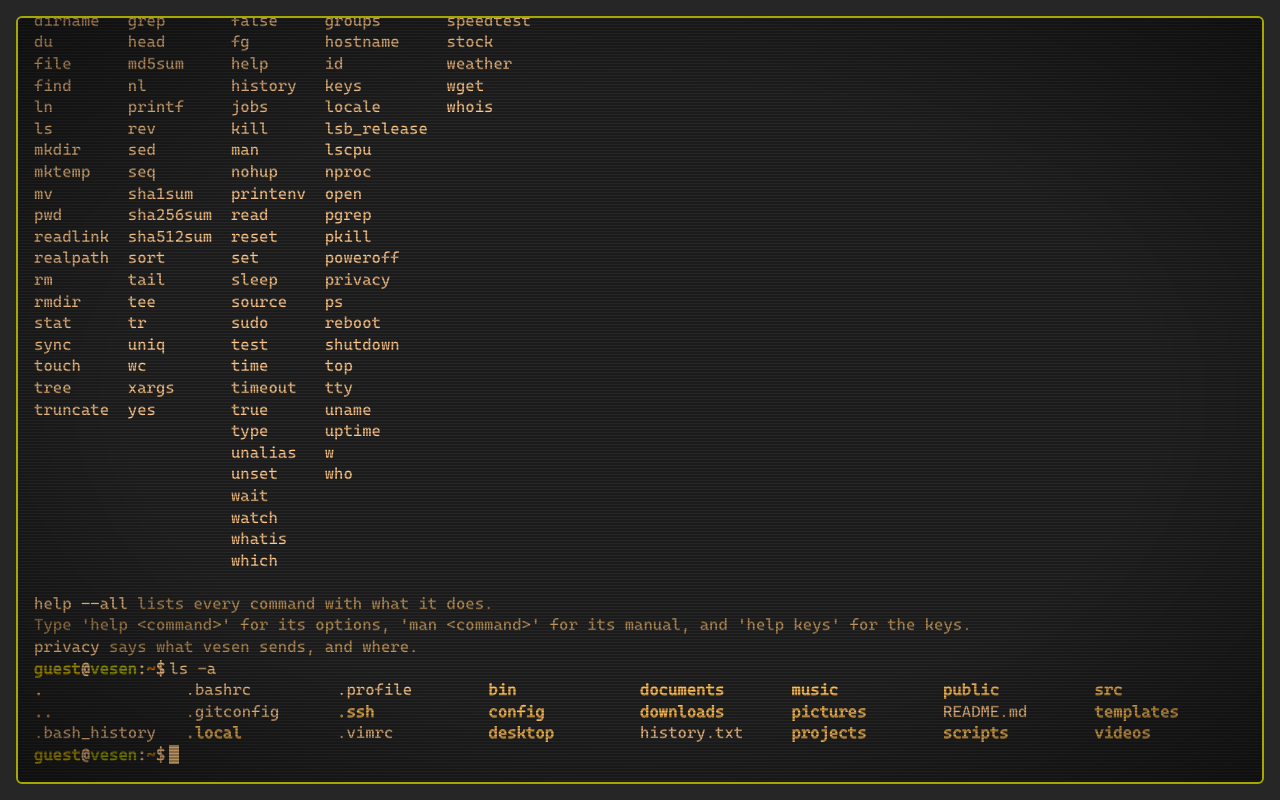
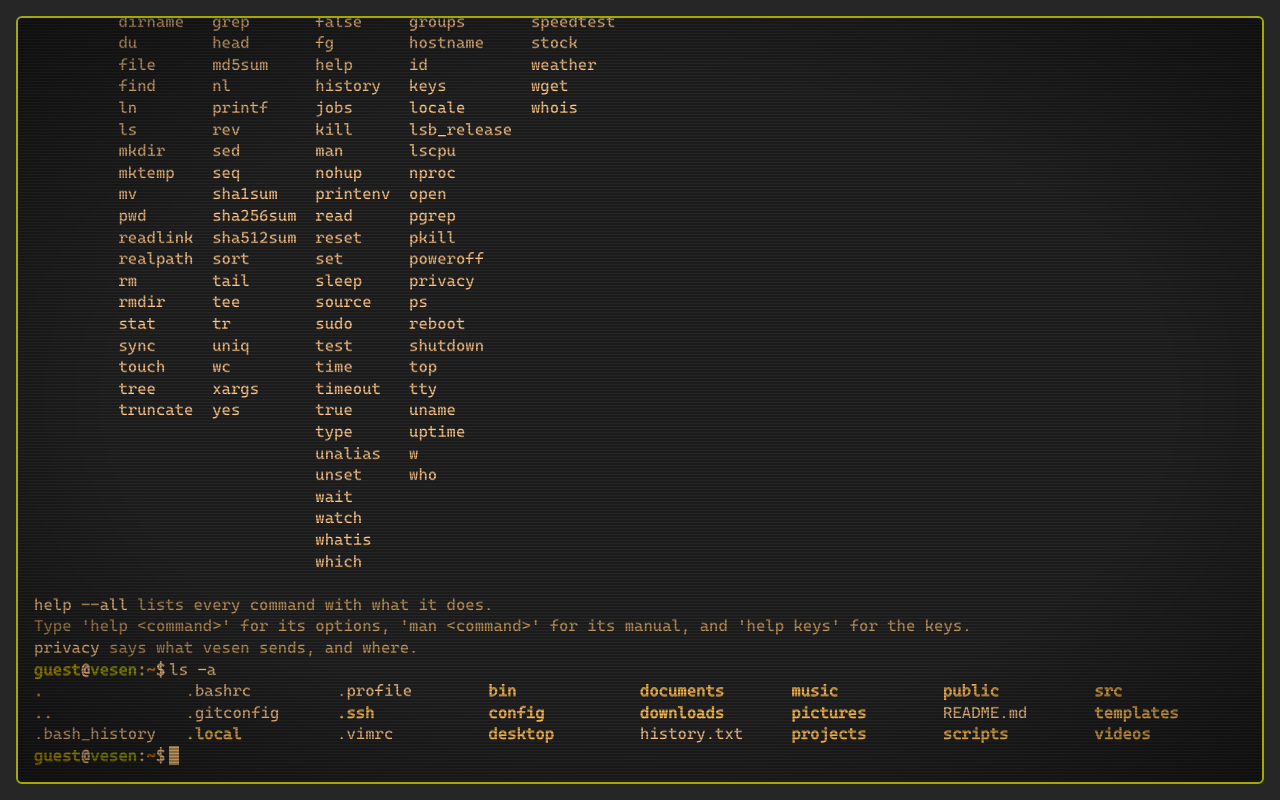
Records: the owner's second review, drawn in ASCII
CHANGELOG's 2.0.0 entry, docs/plan/STATUS.md and ADR 0001 record the
round (weather 426a19f, logos 0a81e59, audit 6b8d381, then help keys
b5a5a9c): the rule, what each track landed, the contracts, the numbers
from this tree, the exceptions kept on purpose and the follow-ups.
banner.ts's comments give the wordmark's sizes with its shadow (44x7,
compact 27x4); the README names the dock's keys in ASCII and no longer
says a wide tree scrolls; the themes README says what the screenshots
show. The fifteen theme screenshots are regenerated from this build
(themes.gif still needs ffmpeg), and the screenshot script serves the
build on the port PW_PORT names when it is set.

diff --git a/docs/plan/STATUS.md b/docs/plan/STATUS.md
@@ -19,12 +19,13 @@ Commit ranges are inclusive; `git log --oneline FIRST^..LAST` lists one. The pha
 | **5. Finish the shell** | `f6c2265`..`ec96dee` (17) | 5.1 the legacy layer deleted (`f6c2265`); 5.2 the lazy catalogue (`b02b1d3`); waves F, E, D, C, A2 and A1 built side by side (`30d1818`, `7344b3b`, `f485027`, `d93ec7a`, `8fdeb59`, `d1c9fe0`, `8718c88`) and merged in order (`490e31c`..`775fe87`); the kernel kept in budget (`115ec06`); the review fixes (`ec96dee`). |
 | **Release** | `370355d` | Version 2.0.0, this page, the README, `docs/SHELL.md`, `CHANGELOG.md`, `CONTRIBUTING.md`, `SECURITY.md`, the pull request template and issue forms, the theme screenshots. |
 | **Follow-up fixes** | `aaa19e8`, `0a14436`, `ef06bc0`, `239e9f0`, merged in `496b27e`..`372ba51`, recorded in `220ef18`; then "Fix what verification of the follow-up fixes found" | The 15 review findings the release left, in four tracks built side by side: apps (Back closes every full-screen view, `nano`'s phone prompt and ^F, `less +CMD`), caps (standard input and `$( )` held to 16 MB, drawings in the screen caps, `figlet`'s widths and fonts, `ping`'s IPv4 inside IPv6), prompt (no flag values in completion, ^C where it was pressed, no early Tab bell, the registry's hints) and gnu (`ip route get`, `timeout` and `nohup`, `date -d`, one process table for `ps` and `/proc`, the review fixes' regression tests). Then the five problems an adversarial check of the merged fixes found: `ip`'s completion, Back while an app loads, the entry a reload leaves, `nano`'s buffer when Back leaves anyway, and `date -d`'s calendar. Still 2.0.0, as the tag was not yet pushed. |
-| **Owner's review** | `f020a16`, `dcb6e14`, `e8a806d`, `b72c847`, merged in `341eda3`..`2e6655e`; then `1416133`, `bfc212e`, `73d9140` | The owner tried v2.0.0 and asked for changes, built in four tracks side by side: help (the index in columns with every command, no underline on tappable names, the cathode glow on them, the `linkedin` command removed, `tree` in the banner, prompt taps on iOS), themes (`theme NAME`, every theme shown at once, five new themes), art (the VESEN wordmark, block-art OS logos, Unicode weather pictograms, two line heights for art) and unicode (every glyph from the font with a guard, the mail card, ASCII stand-ins replaced, weather's matches as chips); then closed lists shown whole on a desktop, the tap-to-type area as a tap target, and the theme screenshots regenerated; and a fifth track, sudo (`b80898c`, merged in `921176c`): the Rick app, an original dancer and an original chiptune, instead of the YouTube link. Still 2.0.0, as the tag was not yet pushed. |
+| **Owner's review** | `f020a16`, `dcb6e14`, `e8a806d`, `b72c847`, merged in `341eda3`..`2e6655e`; then `1416133`, `bfc212e`, `73d9140` | The owner tried v2.0.0 and asked for changes, built in four tracks side by side: help (the index in columns with every command, no underline on tappable names, the cathode glow on them, the `linkedin` command removed, `tree` in the banner, prompt taps on iOS), themes (`theme NAME`, every theme shown at once, five new themes), art (the VESEN wordmark, block-art OS logos and Unicode weather pictograms, both redrawn in ASCII in the second review below, two line heights for art) and unicode (every glyph from the font with a guard, the mail card, ASCII stand-ins replaced, weather's matches as chips); then closed lists shown whole on a desktop, the tap-to-type area as a tap target, and the theme screenshots regenerated; and a fifth track, sudo (`b80898c`, merged in `921176c`): the Rick app, an original dancer and an original chiptune, instead of the YouTube link. Still 2.0.0, as the tag was not yet pushed. |
+| **Owner's second review** | `0deea87`, `64f755f`, `890e24a`, merged in `426a19f`, `0a81e59`, `6b8d381`; then `b5a5a9c`; recorded in "Records: the owner's second review, drawn in ASCII" | The owner tried the first review's result, rejected the block-art logos and pictograms, and asked for the look of a text-mode terminal: everything drawn is drawn in ASCII on the character grid. Three tracks built it side by side and were merged in order: weather (fourteen pictograms hand-drawn in ASCII at the terminal's line height; the range bar as text, `-` outside the day's range, `=` inside it with each `=` shaded from the cold role to the hot one, a bar at the current temperature; the place shown among same-named matches marked `*`; a bar between facts, `...` for a cut, `~` before an approximate place), logos (the wordmark's drop shadow in colons, 44 by 7 and 27 by 4, with the link preview regenerated; fastfetch's four OS logos traced in letters and punctuation in the terminal's own font; the art tools in `scripts/art/`) and audit (`tree`'s `\|--` and `` `-- `` connectors at the terminal's line height with `--charset`; `figlet`'s `#` ink; the status line's four-frame ASCII spinner; `cmatrix`'s ASCII rain; `stock`'s traced chart, dotted previous close, `o` last point and `[--*----]` range bars, signs without arrows and the range shown marked `*`; `##` swatches; `*` in the foreground for the current entry of `theme ls` and `cathode ls`; `->`, `...`, `*` and a bar between facts in every card, hint, chip, key, notice and status label); then `help keys` naming the dock's keys the same way. Still 2.0.0, as the tag was not yet pushed. |
 
 ### Numbers at release
 
-- **Bundles (gzip), after the owner's review:** JavaScript before the first paint 58.1 of 60 kB; the kernel 73.2 of 75 kB, in three files (at most four); the catalogue's specs 29.7 of 40 kB; what `stock`'s first quote fetches 18.5 of 19 kB.
-- **Tests:** 5,460 unit tests in 231 files; the Playwright counts are those of the full run recorded in the pull request after the owner's review.
+- **Bundles (gzip), after the owner's second review:** JavaScript before the first paint 58.4 of 60 kB; the kernel 73.2 of 75 kB, in three files (at most four); the catalogue's specs 29.9 of 40 kB; what `stock`'s first quote fetches 18.9 of 19 kB (the ASCII chart's tracer took it from 18.5, so about 70 bytes are left until the Worker is deployed and `interim.ts` goes).
+- **Tests:** 5,514 unit tests in 235 files; the Playwright counts are those of the full runs recorded in the pull request after each review.
 - **Commands:** 157, 60 in the core and 97 in the catalogue.
 
 ## Deviations from the plan
@@ -51,6 +52,7 @@ Each was deliberate; the ADR amendment named in brackets has the detail.
 - **Additive kernel contracts from the waves:** `CommandContext.digest` (WebCrypto hashes through a port), the process table (`ShellApi.pid()`, `processes()`, `kill()`, `exec(line, { signal })`, `tty.readLine({ signal })`), `StreamInit.mode: 'no-cors'` for `ping`, a session-storage port for commands, `Frame.foreground` so a pipeline stage at the prompt may open the pager, and `ParsedArgs.version` for `--version`. [Waves A1, C, D, F; Phase 5 review fixes]
 - **Contracts from the follow-up fixes:** `MAX_INPUT` and `InputTooLarge` (standard input held to 16 MB), `CaptureOut`'s limit, `TtySink.block(block, stream)` counting blocks, `TtySink.caret()`, `ArgSpec.marks`, `ProcessInfo.uid`, `ShellApi.processes()` as the whole table, `Shell.proc()` with `GenerateContext.processes` and `self`, `VirtualFile.list`, and an app's `back()` export (`AppExports`); and from what verification found, `EnumValue.args` and `aliases` (with `CursorContext.branch`), `HistoryEntries.dropStray()`, `EditorView.kept` and `keep`, a local-storage port for commands (`src/commands/lib/local-store.ts`) and the `vesen:nano:v1` key. All are additive except that `processes()` now lists init and the shell too. [Phase 5 follow-up fixes]
 - **Six more text roles**, `rainbow-red` to `rainbow-purple`, so `lolcat` reads in every theme; `ROLES` has 28 names. [Phase 5 review fixes]
+- **Contracts from the owner's second review:** `LinesBlock.alt` and `out.lines(lines, stream, alt)`, which `tree` uses for a drawing made of ordinary lines; `Swatches.background` nullable with hex or palette colours, and `SWATCH` (`##`); weather's `ArtRow` as 13 by 5 of printable ASCII, `BarSegment` carrying the bar's text (`BAR_TRACK`, `BAR_RANGE`, `BAR_NOW`), and `SEP`, `ELLIPSIS`, `CHOSEN_MARK` and `APPROXIMATE`; stock's `SparkView.rows` of `ChartRun`s and `RangeBarView.track` from `stock/chart.ts`, with `SEP`, `NONE`, `LIVE_MARK`, `IDLE_MARK` and an ASCII `MINUS`; `META_SEP` in `lib/qr`, `ELAPSED_SEPARATOR` in `ui/status-line.ts`, `CURRENT_MARK` in `theme.ts` and `LiveBinding.marker`; `tree`'s `CHARSETS` and `charsetNamed`. All additive except that stock's `viewId` and `id` went with its SVG. [The owner's second review]
 
 ### Safety
 
@@ -63,6 +65,10 @@ Each was deliberate; the ADR amendment named in brackets has the detail.
 - **One regex guard with a line limit.** `src/commands/lib/regex.ts` refuses nested and ambiguous repeats, weighs bounded choices, and gives each pattern the longest line it may run against. `find -name`, `-path` and `tree -I` use shell wildcards (`fnmatch.ts`), so `find` has no `-regex`. [Wave A1, Wave A2, merge, Phase 5 review fixes]
 - **Standard input is capped, not only the screen.** No command holds more than 16 MB of standard input at once, `$( )` keeps at most 16 MB, and drawings count against the screen caps as their text would. [Phase 5 follow-up fixes]
 - **Back closes a full-screen view** (the pager, `nano`, `sl`, `cmatrix`, the Shutdown screen, QR Present mode) instead of leaving vesen: each holds one history entry with no URL of its own while it is open, an entry no view holds (after a reload) comes off at boot, and `nano` keeps an unsaved buffer in local storage while Back asks and when the page goes, so even a Back that leaves loses nothing. [Phase 5 follow-up fixes]
+
+### The look
+
+- **Drawn in ASCII, with the exceptions kept on purpose.** After the owner's second review, everything vesen draws is ASCII on the character grid (the house rule in `docs/ADDING_COMMANDS.md`). Kept deliberately: the QR card's SVG and its half-block text mode, because they must scan; the wordmark's block letters, under an ASCII shadow; chips, cards and panels, which are UI, not drawings; the keycap arrows on the dock's keys and in `help keys`; prose typography such as the degree sign in a weather reading, em dashes inside sentences and `wget`'s quotes; and the formats of the Linux tools vesen imitates, `tree` excepted at the owner's request (its box-drawing connectors crowded each other at the terminal's line height, so ascii is its default charset). `cmatrix` now rains ASCII, so the half-width katakana left the glyph guard's allowlist. [The owner's second review]
 
 ### Size and loading
 
@@ -87,6 +93,7 @@ Each was deliberate; the ADR amendment named in brackets has the detail.
 - `README.md`, `docs/SHELL.md`, `CHANGELOG.md`, `CONTRIBUTING.md`, `SECURITY.md`, the pull request template and the YAML issue forms are written; `docs/ADDING_COMMANDS.md` gained the catalogue, `doc`, `--version`, tables and roles.
 - **The theme screenshot script waits for each line to finish.** `scripts/theme-screenshots.mjs` typed `ls -a` while `help` could still be waiting for the catalogue, and failed on a different theme each run; it now waits for the transcript's `aria-busy="false"`, as the end-to-end tests do.
 - **`docs/themes/themes.gif` was not rebuilt**: ffmpeg is not installed on the machine that made the release. The ten screenshots in `docs/themes/screenshots/` were regenerated from the v2.0.0 build; run `node scripts/theme-screenshots.mjs` after `npm run build` on a machine with ffmpeg to rebuild the GIF.
+- **The fifteen screenshots were regenerated again after the owner's second review**, from its build (the wordmark's shadow and the ASCII marks), and the script now serves the build on the port `PW_PORT` names when it is set, as the Playwright runs do, instead of a random one. ffmpeg is still not installed here, so `themes.gif` is still the v1 one. Since the first review `help`'s index names every command in columns, so at 1280 by 800 the banner and the first columns have scrolled off: each screenshot shows the end of the index and `ls -a`. A taller viewport, or `ls -a` alone, would show the banner again; that is the owner's call.
 
 ## What still needs the owner
 
@@ -120,7 +127,8 @@ Every follow-up fix, and every fix in the verification row, has a regression tes
 ### Other follow-ups from the phase reports
 
 - **The sudo show's tune is vesen's own.** The owner asked for an 8-bit version of "Never Gonna Give You Up"; the song is copyrighted, and transcribing its melody is reproducing it, so the show plays "Never Logging Out", an original chiptune in that style, and shows an original dancer. The player is data-driven (`src/lib/chiptune.ts`): an arrangement the owner holds the rights to can be dropped in as a note list.
-- **After the owner's review:** `docs/themes/themes.gif` is still the v1 one, as ffmpeg is not installed here (`node scripts/theme-screenshots.mjs` rebuilds it where it is); `src/stores/screen.ts` counts a `lists` block as one line for the scrollback cap, a heuristic; the art generators (bitmaps rendered to quadrant characters) stayed in a scratchpad and could live under `scripts/` if the logos are to be iterated; any area meant to take taps must listen for clicks itself (the prompt row and the tap-to-type area do, through `ui/actions/tapTarget.ts`), or iOS WebKit may hand the tap to a small tappable element nearby; a Playwright run in a worktree can be killed by another track's `pkill` by process name, so stop servers by port. From the sudo track: AppHost's immediate `host.focus()` plus the dock's key bar closing can make WebKit report a ResizeObserver loop when the transcript grows in the same frame (sudo sidesteps it with a 200 ms pause; a structural fix would focus on the next frame); confirm during the device probe that `sudo ls` plays on a real iPhone, or asks for a tap; the dancer could gain more frames or a second dance.
+- **After the owner's review:** `docs/themes/themes.gif` is still the v1 one, as ffmpeg is not installed here (`node scripts/theme-screenshots.mjs` rebuilds it where it is); `src/stores/screen.ts` counts a `lists` block as one line for the scrollback cap, a heuristic; the art generators (bitmaps rendered to quadrant characters) stayed in a scratchpad at first, and after the second review the tools that draw the current art live in `scripts/art/`; any area meant to take taps must listen for clicks itself (the prompt row and the tap-to-type area do, through `ui/actions/tapTarget.ts`), or iOS WebKit may hand the tap to a small tappable element nearby; a Playwright run in a worktree can be killed by another track's `pkill` by process name, so stop servers by port. From the sudo track: AppHost's immediate `host.focus()` plus the dock's key bar closing can make WebKit report a ResizeObserver loop when the transcript grows in the same frame (sudo sidesteps it with a 200 ms pause; a structural fix would focus on the next frame); confirm during the device probe that `sudo ls` plays on a real iPhone, or asks for a tap; the dancer could gain more frames or a second dance.
+- **After the owner's second review:** a few glyphs the font has stayed in files another session was changing at the time, to be made ASCII with the next change there: `CompletionRow.svelte`'s return mark on a chip that runs, the ellipsis in `src/shell/complete/sources.ts`, the prompt's secret mask and placeholder ellipsis, the sudo show's floor rule in `rick.ts` and the dots in `Rick.svelte`. The thunder pictogram keeps two rain strokes beside the bolt, which the owner may want gone. The weather pictograms were drawn by hand, so no generator for them went into `scripts/art/` (the weather track's tracing tools stayed in the scratchpad; `scripts/art/trace.py` and the preview page serve any new piece). `stock`'s first-quote budget has about 70 bytes of headroom until the Worker is deployed. The theme screenshots no longer show the banner (see Docs above). `tree` is a `lines` block again, so a tree wider than the terminal wraps as text does instead of scrolling sideways in its own block as its art block did; a `fit: 'scroll'` on a lines block, as art has, would bring the scroll back if the owner prefers it. Load-sensitive tests the tracks saw fail once under load and pass on a rerun: `e2e/apps-back.spec.ts` and the sudo show's Back on iPhone, the safety-caps run and the 320 px reflow on pixel-7, and a route race in `e2e/hosting.spec.ts` when the idle prefetch fetches a chunk the test is intercepting. The plan's full text (`02`, sections 5 and 7) still shows the design's `•••` key bar and `••• → Open in browser`; the ADR wins.
 - **Kernel headroom** is 1.6 kB (73.4 of 75 kB). Further kernel growth should move more inline bodies to `.run.ts` (the largest left are `cat`, `theme`, `keys`, `cd`, `echo` and `history`).
 - **`curl`'s status line** can still name `-o FILE` instead of the URL. `ping`, `host`, `whois` and `wget` name their operand now; `curl` is a core command, so the same fix adds to the kernel.
 - **Back on real phones.** Chrome may mark a history entry pushed without a fresh tap or keystroke as one the Back button skips. The entry an app pushes when it opens follows Enter or a tap, so it should hold, but `nano` puts its entry back from inside `popstate` while it asks to save, and the pager does when Back takes its search or help away; after that, Chrome's button might go past vesen, and in Instagram's Android browser close it. Nothing is lost if it does (`nano` keeps the buffer and offers it back), but vesen is left. Playwright's `page.goBack()` does not skip entries, so only a real Android phone and Instagram's browser can confirm it (see the device probe above). If it does skip, putting the entry back at the visitor's next tap or key instead, rather than inside `popstate`, would avoid it.

diff --git a/docs/adr/0001-architecture.md b/docs/adr/0001-architecture.md
@@ -157,3 +157,12 @@ Changes to the contracts since the full text was written. Where an amendment and
   - **Every glyph from the font.** `scripts/check-glyphs.mjs` (`npm run check:glyphs`, in CI's `check` job) reads the font's code points from `scripts/fonts/glyphs.json`, written by `scripts/fonts/build-vesen-mono.py --list`, and fails on any character in the sources that Vesen Mono lacks, except an allowlist of what is not drawn by the terminal font on purpose. It also checks the list's sha256 against the shipped woff2, and `scripts/check-glyphs.test.ts` runs the scan under `npm test`; the allowlist keeps combining marks, bidi marks and the half-width katakana `cmatrix` draws on a canvas with the system's fallback font. The glyphs it found (✉ ⧉ ↗ ↻ ✕ ⌄ ⌨ ⏻ ⋮, and ⌘ in a hint) were replaced by words and glyphs in the font in output (the cards say `Open mail app →`, `Copy address` and mark links with `→`; stock's chips read `refresh` and `try again`; the Stop chip shows `×`; Android's in-app hint says `Menu →`; `help keys` shows `▾`; the copy hint says `Press Cmd+C to copy`) or by inline SVG icons (1em, currentColor, aria-hidden) in UI chrome (`KeyDef.icon` for the dock's hide and Type keys, the sheets' close buttons, the Shutdown screen's power button). The rule: output and chips use only the font's glyphs; chrome may draw an inline SVG where no glyph fits. vesen's own ASCII stand-ins became the font's rules, arrows and bullets (fastfetch's title rule `─`, weather's plain range bar `─━┃`); what a command prints while imitating a real tool is unchanged.
   - **Weather's choices.** The alternatives for an ambiguous place are a `Matches:` row (`role="group"`): the place shown first as a marked chip (`› Place`, `aria-current`, like stock's current range) and the other matches as tappable chips, instead of names joined by `·`; in text, `Matches:` then `› A` and `  B`, and for a screen reader or `--json` "Other matches: A; B." `WeatherCardProps` gains an optional `chosen`, and `view.ts` exports `alternativeLabel`, `MATCHES_LABEL` and the bar's `BAR_TRACK`, `BAR_RANGE` and `BAR_NOW`. The title states the temperature unit in force (`Oslo, NO (°C)`), so the °F/°C chip reads as a switch, and the last-place note is two sentences. ` · ` stays only between plain facts.
   - **sudo's show (the fifth track).** The owner asked that `sudo COMMAND`, after the password, open a window with an ASCII animation of Rick Astley dancing and an 8-bit version of "Never Gonna Give You Up" instead of the YouTube link. The song is copyrighted and transcribing its melody or chords is reproducing it, so vesen plays "Never Logging Out", an original chiptune in the Game Boy style (113 bpm, two pulse channels with duty cycles, a triangle bass, noise drums, 34 s a loop), and shows an original dancer (eight 24×14 frames composed from sprites in theme roles). `src/lib/chiptune.ts` is the DOM-free tracker format (`Song`, a pattern string per channel, `parse`, `schedule`); `src/services/chiptune.ts` is the synth over the page's one AudioContext, now shared through `src/services/audio.ts` with the bell, with a look-ahead scheduler, square and triangle oscillators, noise buffers, a master gain and a fade on stop; `src/commands/lib/rick.ts` builds the view (frames and song) DOM-free; `src/ui/apps/Rick.svelte` is the app (`rick` in `FullscreenView` and the registry): Esc, ^C, q, Back (`back()`) and a touch Close button end it, m and a Mute button mute it, reduced motion shows one still frame with the music on, and a browser that holds the sound back asks for a key or tap. `sudo.run.ts` opens it on a TTY after a 200 ms "checking" pause (which also keeps the prompt's echo and the app's opening in separate frames, as WebKit's ResizeObserver needs), prints the sudoers line after it, and keeps the sandwich; in a pipe there is only the message. `SUDO_VIDEO`, the read's `opens`, the incident card and the opened-tab line are gone, so `sudo` contacts nothing. The app and the show's data are lazy chunks; the kernel is unchanged.
+- **The owner's second review: drawn in ASCII (11 October 2026).** The owner tried the first review's result and rejected its block-art logos and block pictograms, wanting the look of a classic text-mode terminal, everything drawn with ASCII on the character grid. Three tracks (weather, logos, audit) built it side by side and were merged in that order, then `help keys` followed. This amends "The wordmark, the logos and the pictograms" above, and the last sentence of "Every glyph from the font": vesen's own ASCII stand-ins had become the font's rules, arrows and bullets, and are ASCII again, on purpose. Every contract change below is additive, except that stock's `viewId` and `id` went with its SVG.
+  - **The rule.** What vesen draws is ASCII (U+0020 to U+007E) on the character grid: art, bars, charts, rules, connectors, spinners, selection markers, bullets and separators, never a CSS strip, an SVG chart or Unicode block shading. Box drawing and block characters stay only where the thing is that by nature: the wordmark's letters and the scannable QR code (its SVG card and half-block text mode must scan). Vesen's own UI text uses ASCII punctuation (`->`, `...`, `*`, ` | ` between facts), and a selection marker is plain text in the terminal's foreground, never a theme colour. Prose keeps its typography (the owner's documents, man-page text, degrees in a weather reading, em dashes inside sentences, wget's quotes); chips, cards and panels stay UI; the keycap arrows on the dock stay; and a command that imitates a Linux tool keeps that tool's own format, with `tree` the one exception the owner asked for. `docs/ADDING_COMMANDS.md` and `CONTRIBUTING.md` state the rule. The glyph guard stays and passes trivially for ASCII; its allowlist lost the half-width katakana, as `cmatrix` rains printable ASCII now.
+  - **Art drawn with letters.** fastfetch's four OS logos (an apple with two lobes, a leaf, a bite and a notch; a bugdroid; four panes in perspective; a penguin with a lighter belly) are silhouettes painted with PIL in `scripts/art/logos.py` and traced with `scripts/art/trace.py`, which renders every printable glyph of the terminal's own font into a cell of its aspect and gives each cell of the shape the glyph whose ink matches best, the inside in one fill glyph (M for the apple and the bugdroid, # for the panes, W for the penguin, with a `.` belly): 25 to 28 columns by 13 or 14 rows of printable ASCII without a backtick, so `ui/art-class.ts` gives them `art-glyph` and they are shown at the terminal's line height, like cowsay's animals. `Logo` and `logoFor` are unchanged. `scripts/art/` also holds a preview page in the real web font with a screenshot helper and a README on iterating; the tools are not npm scripts and nothing in the app imports them.
+  - **The wordmark.** It keeps its quadrant letters and gains a drop shadow drawn in `:` one column right and one row down, rendered from the letters' own 2x2 bitmap by `scripts/art/wordmark.py` (`--write` rewrites the constants): `BANNER_ART` is 44 by 7 (six rows of letters, one of shadow) and `BANNER_ART_COMPACT` 27 by 4, both still plain template literals. `withVersion` puts the version on the last row that holds a block character, so the shadow row is skipped. `scripts/og.mjs` expects the seven rows, and `public/og.png` was regenerated.
+  - **Weather.** `ArtRow` is 13 by 5 of printable ASCII with the same roles; the card no longer sets line height 1 for a line that starts with art, so `ART_ROLES` and `isArtRole` are a test invariant only. The range bar is text: `BarSegment` carries `barText(bar, cols)`, which the card draws cell by cell, `BAR_TRACK` (`-`) outside the day's range, `BAR_RANGE` (`=`) inside it and `BAR_NOW` (`|`) at the current temperature, and a bar always keeps one `=`, moved beside a `|` that would cover the only one, so a steady day still shows. Each `=` cell is coloured by `color-mix(in oklab, ...)` from `--role-cold` to `--role-hot` by its place across the whole bar, behind `@supports`, and is the cold role where the engine lacks it; the CSS strip, gradient and clip-path are gone. The place shown among same-named matches is marked `CHOSEN_MARK` (`*`) in the foreground, bold, on a chip with the same border as the others (no accent), and in the text form too; this amends "Weather's choices" (`› Place`). `view.ts` exports `SEP` (` | `, between facts and in the credit lines), `ELLIPSIS` (`...`) and `CHOSEN_MARK`; `places.ts` exports `APPROXIMATE` (`~ `); the status labels use straight quotes. Degrees, the place names' middle dots and OpenStreetMap's copyright sign stay.
+  - **A `lines` block may carry an `alt`.** `LinesBlock.alt` is additive: `out.lines(lines, stream, alt)`. OutputView hides such lines from screen readers behind an sr-only alt, `session-restore` keeps it, and `TtySink.block` counts it against the screen caps as it counts art's. `tree` uses it: it writes ordinary lines again (at the terminal's line height, wrapping as text does), with the connectors of `tree --charset=ascii` (`|--` and `` `-- ``) by default; `CHARSETS` and `charsetNamed(name)` in `tree.run.ts` take `--charset` (`utf-8` or `utf8` draws box-drawing lines; any other name is ascii, as tree falls back), and its help says why ascii is the default here.
+  - **Swatches.** `Swatches.background` is nullable (null is the terminal's own) and its `colours` are hex or palette tokens, so `theme ls` previews other themes in hex while fastfetch's strip follows the theme; `SWATCH` is `##`, two cells of ink per colour, and a pipe receives the span's text. fastfetch's title rule is `-`.
+  - **Stock.** `SparkView` is rows of `ChartRun`s from `stock/chart.ts`: `traceChart` draws the closes as `_`, `-` and `'` by their level in the row, joined by `/` and `\` where the line climbs or falls, the comparison line dotted, the last point `o`, each cell toned up, down, base or last (`CARD_CHART` 32 by 5, `MINI_CHART` 12 by 2; `chartLines` for text). `Sparkline.svelte` draws the runs as spans and `text.ts` the same rows for a pipe. `RangeBarView.track` is a `[--*----]` track (`trackText`, `TRACK_CELLS` 7); `viewId` and `id` are gone with the SVG. `format.ts`'s `MINUS` is ASCII and `failureWords` has no dash; `view.ts` exports `SEP` (` | `), `NONE` (`-`), `LIVE_MARK` (`* `) and `IDLE_MARK` (`o `), so the phase reads `* Open | closes ...` or `o Closed | ...`; changes carry their sign with no arrow glyph, and the range shown is marked `* ` with `aria-current` and no accent outline.
+  - **Marks and separators elsewhere.** `META_SEP` (` | `) in `lib/qr`; `SPINNER` (`| / - \`), `STILL` (`...`) and `ELAPSED_SEPARATOR` (` | `) in `ui/status-line.ts`, whose touch chip reads `Stop`; `CURRENT_MARK` (`* `) in `commands/portfolio/theme.ts`, shared by `cathode ls`, drawn unstyled: `LiveBinding` gains an optional `marker`, which SpanView shows on the current entry and as spaces on the others, so the mark moves in every earlier listing, and the accent override on the current theme name is gone (`aria-current` still says so to a screen reader). figlet inks with `#`; the dock's symbols key is `...` (`SYMBOLS_KEY`), a chip that runs a line leads with `>` and the stop chip with `x`; the chevron and keyboard icons stay inline SVG, as "Every glyph from the font" allows chrome. Link cards use `->` and say `Copied`, the in-app hint is `... -> Open in browser`, the Shutdown screen says `* vesen is off`, and the pager's hint, the QR meta line and note, privacy's bullets, debug's confirmation, the stale-chunk notice, the error buffer's cut, the prompt's cut folder name (bash's own `...`) and every status label use ASCII punctuation.

diff --git a/CHANGELOG.md b/CHANGELOG.md
@@ -42,6 +42,8 @@ A rewrite of the whole app, built from the audit and plan in [docs/plan](docs/pl
 
 - `weather` draws a card from Open-Meteo, with place search, `weather --here`, units by locale and a curated place table (Gadigal, Aotearoa and the Palestinian place names keep working); the wttr.in scrape is gone.
 - `stock` reads quotes through vesen's own Cloudflare Worker (`worker/stock`), with a card, a chart, a table for several tickers, search by name, ranges, market phases, saved copies marked STALE, and an honest interim source until the Worker is deployed.
+- After the owner's second review, `weather`'s pictograms are hand-drawn ASCII at the terminal's line height (a shaded sun, a crescent, clouds, rain by intensity, sleet, snow, fog, a bolt, and a question mark for a code it does not know); its range bar is text, `-` for the scale, `=` inside the day's range with each `=` shaded from the cold colour to the hot one along the scale, and `|` at the current temperature; the place shown among same-named matches is marked `*`; facts are separated by ` | `, a cut ends in `...` and an approximate place starts `~`.
+- `stock`'s chart is a traced ASCII line with a dotted previous close and an `o` at the last point, its range bars are `[--*----]` tracks, the range shown is marked `*`, and changes carry their sign with no arrow.
 - `qr` uses an in-house encoder (the `qrcode` dependency is gone), draws a scannable card in the theme's colours and a black-on-white full-screen Present mode, and saves, shares or copies the image.
 - `curl` says plainly what CORS allows; `speedtest` asks before spending data on a phone.
 
@@ -68,12 +70,15 @@ A rewrite of the whole app, built from the audit and plan in [docs/plan](docs/pl
 
 - Role colours (`--role-*`) over each theme's palette, with every theme passing WCAG contrast; cockatoo and swamphen adjusted to pass.
 - Vesen Mono, a self-hosted subset of Cascadia Code under the SIL OFL.
-- A new VESEN wordmark in the banner, bold and italic in block characters, with a compact one on phones; the link preview matches. The banner also says this is a virtual file system and points at `tree`.
+- A new VESEN wordmark in the banner, bold and italic in block characters with a drop shadow drawn in colons, with a compact one on phones; the link preview matches. The banner also says this is a virtual file system and points at `tree`.
 - Fifteen themes: five new ones named for Australian animals, galah, lorikeet, magpie, platypus and quokka (the second light theme), with every palette slot readable at 4.5:1.
 - Tappable names carry no underline until hovered or focused, and under `cathode phosphor` and `vintage` they glow like the text beside them (browsers give buttons no text shadow of their own).
-- Every glyph on the page comes from Vesen Mono, checked by `npm run check:glyphs`: the mail card's and link cards' icons, the dock's keys, the Shutdown screen and the stock card no longer fall back to another font, and vesen's own output uses the font's rules, arrows and bullets instead of ASCII stand-ins (fastfetch's underline, weather's plain-text range bar).
-- `fastfetch`'s Apple, Android, Windows and Linux logos and `weather`'s pictograms (sun, moon, clouds, rain by intensity, sleet, snow, fog, thunder) are redrawn in block and box-drawing characters for the terminal's tight line spacing; art drawn with letters, such as `cowsay`'s animals, keeps the terminal's normal line height instead of being squashed.
-- `weather` names the other matches for an ambiguous place as tappable chips with the chosen one marked, and its header states the units in use.
+- Every glyph on the page comes from Vesen Mono, checked by `npm run check:glyphs`: the mail card's and link cards' icons, the dock's keys, the Shutdown screen and the stock card no longer fall back to another font.
+- After the owner's second review, everything vesen draws is drawn in ASCII on the character grid, as a text-mode terminal draws it: art, bars, charts, rules, connectors, spinners, markers, bullets and separators, never a CSS strip, an SVG chart or block shading. Box drawing and half blocks stay only where the thing is that by nature (the wordmark's letters and the scannable QR code); prose keeps its typography, and a command that imitates a Linux tool keeps that tool's format.
+- `fastfetch`'s Apple, Android, Windows and Linux logos are fine ASCII tracings in letters and punctuation, traced in the terminal's own font from silhouettes drawn for vesen and shown at the normal line height, as `cowsay`'s animals are; the tools that drew them are in `scripts/art/`.
+- `tree` prints `|--` and `` `-- `` connectors at the terminal's line height, with `--charset utf-8` for box drawing; `figlet` inks with `#`; the status line spins `| / - \` (a still `...` under reduced motion); `cmatrix` rains ASCII; swatches are `##` cells; `theme ls` and `cathode ls` mark the current entry `*` in the foreground instead of colouring its name.
+- Vesen's own text uses ASCII punctuation: `->` on link cards and in the in-app hint (`... -> Open in browser`), `...` on the dock's symbols key, `>` on a chip that runs a line, ` | ` between facts (the QR meta line, the status line's elapsed time), `*` for bullets and markers, on the Shutdown screen, in the pager's hint, `privacy`, `debug`, the stale-chunk notice, the prompt's cut folder name, `help keys` and every status label.
+- `weather` names the other matches for an ambiguous place as tappable chips with the chosen one marked `*`, and its header states the units in use.
 - CRT tiers: full on desktop, a lighter static effect on phones and in-app browsers, off under reduced motion, more contrast or forced colours.
 - Link preview, icons and a web manifest.
 

diff --git a/README.md b/README.md
@@ -39,9 +39,9 @@ At the prompt, Tab completes (extend, then list, then cycle), ↑ and ↓ step t
 
 ### On a phone
 
-A dock rides above the keyboard. Its chips run a starter command in one tap without opening the keyboard, offer what comes next after a command (every theme after `theme ls`), and build a line by tapping. Holding a chip puts it at the prompt instead of running it. The key bar has tab, ↑, ↓, ^C, clear, ••• for symbols and ▾ to put the keyboard away; holding ↑ opens a list of past commands. A hardware keyboard hides the key bar, and `keys on|off|auto` chooses. Open the page with `?dock=1` to see the dock on a desktop.
+A dock rides above the keyboard. Its chips run a starter command in one tap without opening the keyboard, offer what comes next after a command (every theme after `theme ls`), and build a line by tapping. Holding a chip puts it at the prompt instead of running it. The key bar has tab, ↑, ↓, ^C, clear, `...` for symbols and a chevron to put the keyboard away; holding ↑ opens a list of past commands. A hardware keyboard hides the key bar, and `keys on|off|auto` chooses. Open the page with `?dock=1` to see the dock on a desktop.
 
-The page keeps pinch zoom, sizes itself to the visible screen above the keyboard, and never scrolls sideways: wide output such as `tree` or `ps aux` scrolls inside its own block. Inside Instagram's browser a link opens only when tapped, in the same view, and Back brings the terminal back as it was. The CRT effect is lighter on phones and in in-app browsers, and off under reduced motion, more contrast or forced colours.
+The page keeps pinch zoom, sizes itself to the visible screen above the keyboard, and never scrolls sideways: wide output such as `ps aux` scrolls inside its own block. Inside Instagram's browser a link opens only when tapped, in the same view, and Back brings the terminal back as it was. The CRT effect is lighter on phones and in in-app browsers, and off under reduced motion, more contrast or forced colours.
 
 ### Network commands are honest
 

diff --git a/docs/themes/README.md b/docs/themes/README.md
@@ -1,6 +1,6 @@
 # Vesen themes
 
-Each screenshot shows the banner, `help` and `ls -a` at 1280×800. They are generated from the built app, so they match what visitors see: run `npm run build && node scripts/theme-screenshots.mjs` after changing a theme or the look. With ffmpeg installed, the same script rebuilds `themes.gif`.
+Each screenshot shows `help` and `ls -a` at 1280×800 (the index names every command, so the banner has scrolled off the top). They are generated from the built app, so they match what visitors see: run `npm run build && node scripts/theme-screenshots.mjs` after changing a theme or the look. With ffmpeg installed, the same script rebuilds `themes.gif`.
 
 Every theme passes the contrast check (`npm run check:contrast -- --strict`): text in each role reaches at least 4.5:1 on the theme's background.
 
